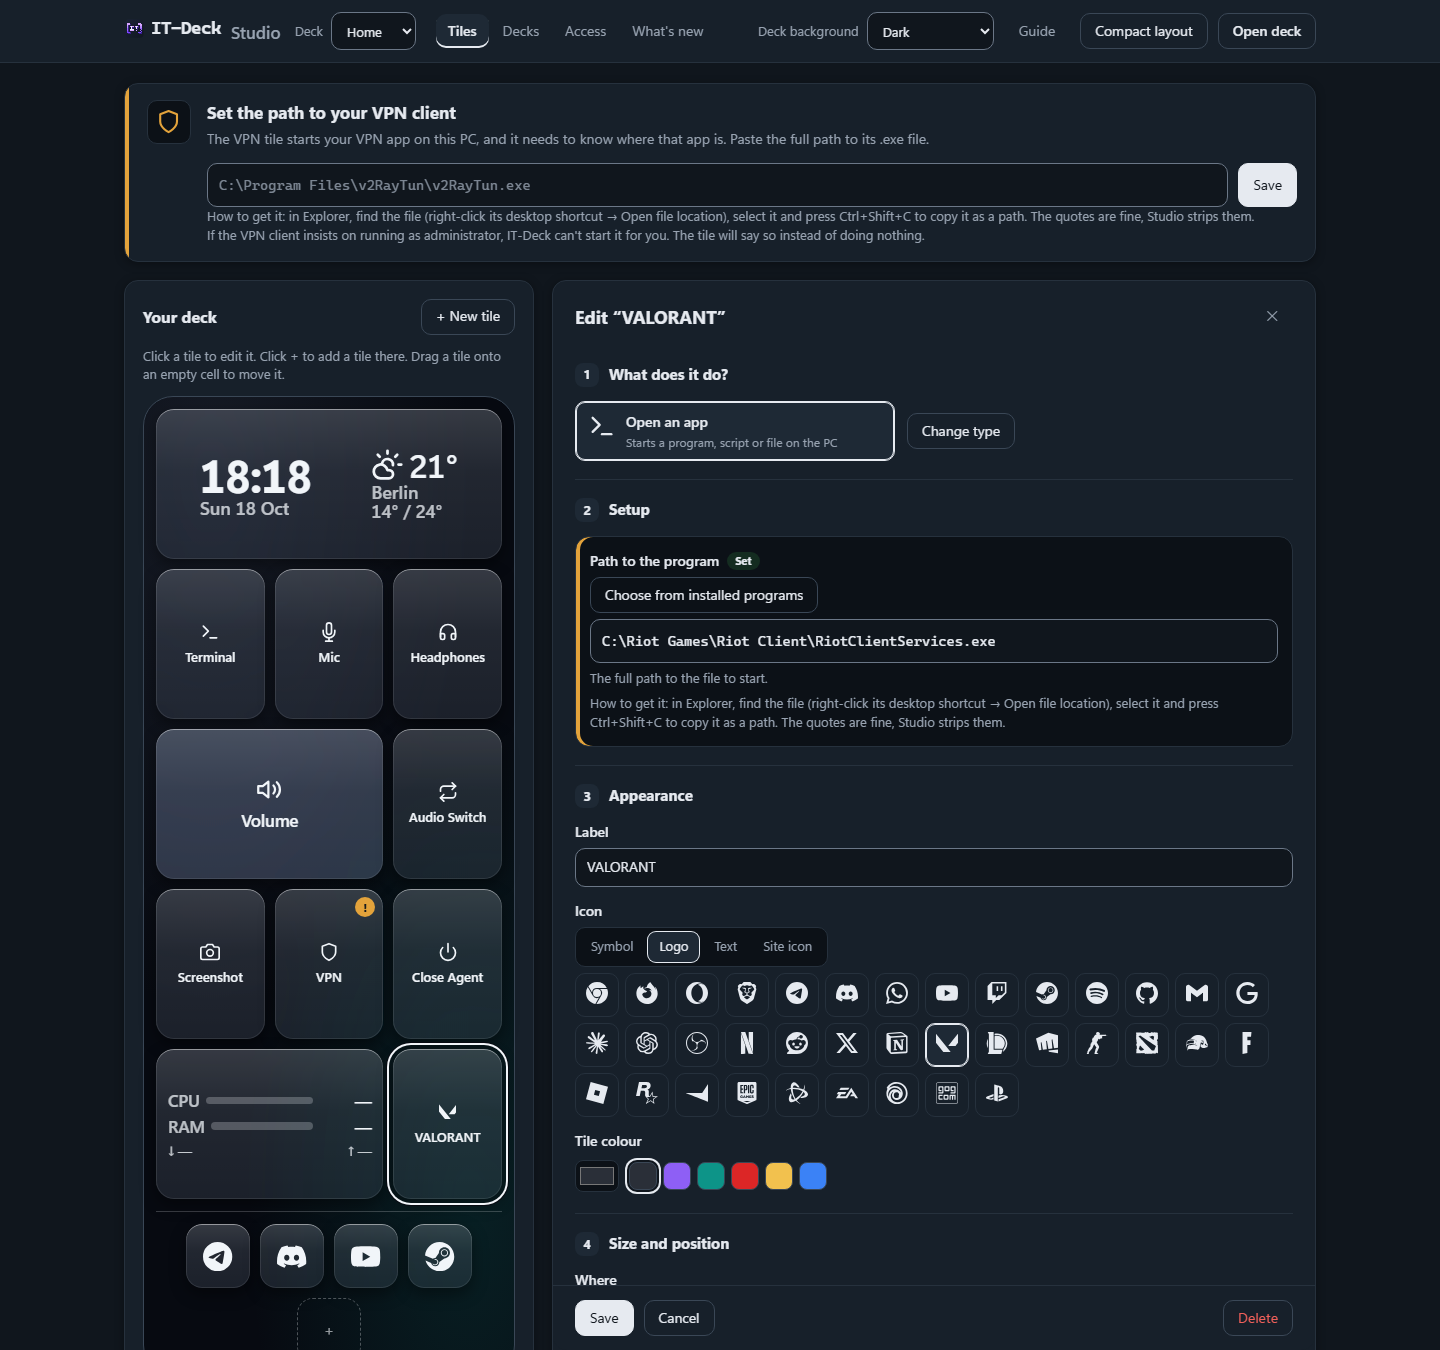
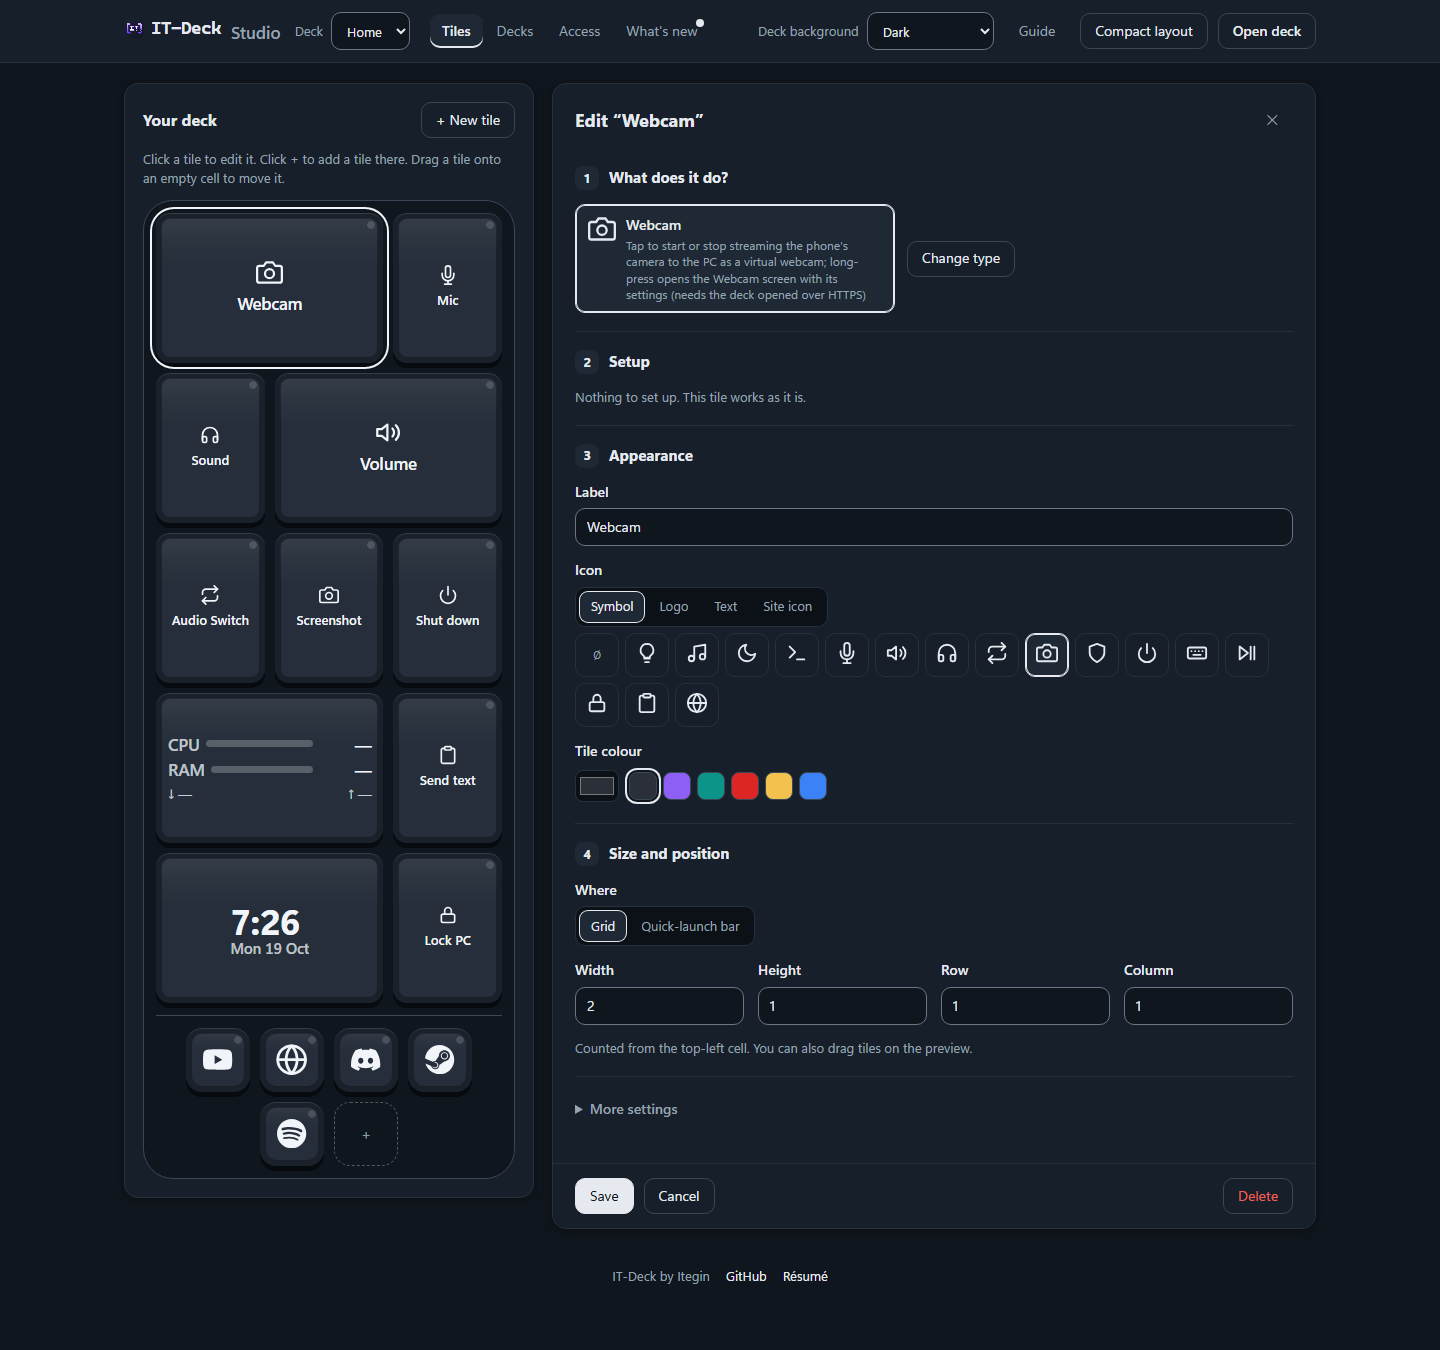
IT-Deck v0.6.1

diff --git a/README.md b/README.md
@@ -11,7 +11,7 @@ doing. The same phone can be your PC's webcam.
 
 **[Русская версия](README.ru.md)**
 
-<img src="docs/screenshots/hero.png" alt="The IT-Deck deck on a phone held upright: a grid of tiles for the microphone, volume, audio device, VPN and PC load, and a bar of quick-launch buttons along the bottom" width="300">
+<img src="docs/screenshots/hero.png" alt="The IT-Deck deck on a phone held sideways: the Webcam tile lit red and marked On air, 720p, with a red dot on the camera button in the header, tiles for Mic, Sound, Volume, Audio Switch, Screenshot, Shut down, PC load, Send text, Clock and Lock PC, and a bar of quick-launch buttons down the left side" width="600">
 
 You need a Windows PC and a phone on the same Wi-Fi. Nothing else is installed
 on either one.
@@ -32,12 +32,12 @@ on either one.
 4. **Point the phone's camera at the code.** Use the normal Camera app. Tap the
    banner that appears. The deck opens in your browser.
 
-   <img src="docs/screenshots/dashboard.png" alt="The deck on a phone: tiles for Mic, Volume, Audio Switch, VPN and Terminal, a clock and weather widget, and the quick-launch bar along the bottom" width="300">
+   <img src="docs/screenshots/dashboard.png" alt="The Home deck on a phone held sideways: a wide Webcam tile and a Mic tile on top, then Sound, a Volume slider, Audio Switch, Screenshot, Shut down, PC load, Send text, a clock and Lock PC, with the quick-launch bar down the left side" width="600">
 
 5. **Add it to the Home Screen.** In Safari tap the Share button, then
    **Add to Home Screen**. The deck now has its own icon, like an app.
 
-   <img src="docs/screenshots/add-home.png" alt="The Share sheet in iPhone Safari with the Add to Home Screen row ringed" width="300">
+   <img src="docs/screenshots/add-home.png" alt="The Share sheet in iPhone Safari with the Add to Home Screen row ringed" width="240">
 
 That is all. Tap a tile and the PC does it. The tile shows what happened: the
 Mic tile turns red while the microphone is muted.
@@ -54,6 +54,8 @@ The phone's camera becomes a webcam on your PC. Windows 11 only. You set it up
 once. After that, apps such as Discord, Zoom and OBS list it as
 **IT-Deck Camera**.
 
+<img src="docs/screenshots/webcam-demo.gif" alt="A 10-second loop: a video app's settings with IT-Deck Camera picked and its preview waiting; on the phone beside it the deck shows An app on the PC wants the camera, Start is tapped, the Webcam tile turns red and says On air, and the app's preview switches to the live picture" width="720">
+
 1. **Install the camera.** In the IT-Deck window find the Webcam card and press
    **Install camera**. Windows asks for administrator rights. Say yes. This
    happens once.
@@ -65,17 +67,13 @@ once. After that, apps such as Discord, Zoom and OBS list it as
 
    Why this step? The phone only shares its camera with a page it trusts, so
    you install IT-Deck's certificate (a small trust file) on the phone once.
-   The page has three steps with pictures. Do them one by one.
+   The page has four steps with pictures. Do them one by one.
 
-   <img src="docs/screenshots/setup-1.png" alt="Setup page, step 1: Download the profile, with a button to download it and a note that Safari will ask to allow it" width="300">
-   <img src="docs/screenshots/setup-2.png" alt="Setup page, step 2: Install the profile, with a drawn iPhone Settings screen showing where to tap" width="300">
-   <img src="docs/screenshots/setup-3.png" alt="Setup page, step 3: Trust it, with a drawn Certificate Trust Settings screen and the IT-Deck local CA switch" width="300">
+   <img src="docs/screenshots/setup-steps.png" alt="The four steps of the setup page on an iPhone, side by side: 1 Download the profile, 2 Install the profile with drawn Settings screens showing where to tap, 3 Trust it with the IT-Deck local CA switch, 4 Add to Home Screen with an Open the deck button" width="720">
 
 3. **Open the deck.** The last step says **Open the deck**. Tap it. On the page
    that opens, tap Share, then **Add to Home Screen**. From now on use this new
    icon. You can delete the old IT-Deck icon.
-
-   <img src="docs/screenshots/setup-4.png" alt="Setup page, step 4: the certificate is trusted, with an Open the deck button and a drawn Safari Share sheet" width="300">
 
 4. **Pick the camera in your app.** In Discord, Zoom or OBS, open the camera
    settings and choose **IT-Deck Camera**. The picture is a dark placeholder
@@ -87,7 +85,7 @@ once. After that, apps such as Discord, Zoom and OBS list it as
    "An app on the PC wants the camera". Tap **Start**. Your picture appears in
    the app.
 
-   <img src="docs/screenshots/deck-start.png" alt="The deck on a phone with a card that says An app on the PC wants the camera, with Not now and Start buttons" width="300">
+   <img src="docs/screenshots/deck-start.png" alt="The deck on a phone held sideways with a card that says An app on the PC wants the camera, with Not now and Start buttons" width="600">
 
 **Notes.**
 - 720p at 30 fps is best over Wi-Fi. 1080p may break up on a weak network.
@@ -111,13 +109,13 @@ tile to edit it, press `+` to add one, drag to move. You choose what a tile
 does from cards, with no commands to type. The **Guide** button in the top bar
 is a short illustrated how-to.
 
-<img src="docs/screenshots/studio.png" alt="Studio in the Graphite look: a live preview of the deck next to the editor for an app tile, VALORANT, with logos of popular apps, games and launchers; the top bar has Decks, Access and What's new" width="600">
+<img src="docs/screenshots/studio.png" alt="Studio in the Graphite look: a live preview of the Home deck in Keycap next to the editor for the Webcam tile, with its icon, colour, size and position; the top bar has Decks, Access and What's new" width="600">
 
 Pick a look from five tile themes: Flat, Pastel, Glossy, Liquid Glass and
 Keycap. Each works on a dark or a light background. Tap the pill in the deck's
 header to switch theme.
 
-<img src="docs/screenshots/themes.png" alt="The same deck in five tile themes side by side: Flat, Pastel, Glossy, Liquid Glass and Keycap" width="600">
+<img src="docs/screenshots/themes.png" alt="The same Home deck in five tile themes side by side: Flat, Pastel, Glossy, Liquid Glass and Keycap" width="600">
 
 ## If something doesn't work
 

diff --git a/CHANGELOG.md b/CHANGELOG.md
@@ -4,6 +4,31 @@ Newest first. Versions are git tags; `main` between tags is unreleased.
 
 ---
 
+## v0.6.1 — 2026-10-19
+
+### Added
+
+- **Six deck templates** in Studio's Decks dialog: Home, Streamer, Work,
+  Gamer, Calls, and Music & video. A new install starts with Home, which has a
+  quick-launch bar.
+
+### Changed
+
+- **The Webcam tile is 2 wide** and turns the on-air red while streaming, with
+  the quality ("On air · 720p") under its name.
+- **Keycap is the default theme.** A theme you picked stays.
+- **README screenshots** show the deck held sideways in Keycap; the webcam
+  setup steps are one picture.
+- **The Home Screen icon is the pixel `[IT]`.** Add the deck to the Home
+  Screen again to see it.
+- **A 10-second webcam demo** at the top of the README's webcam section.
+
+### Fixed
+
+- **Shut down asks first again.** On a deck held sideways the Run / Cancel
+  sheet opened under the finger, and the same tap pressed Run. A sheet now
+  counts only presses that start on it, and Cancel has the keyboard focus.
+
 ## v0.6.0 — 2026-10-17
 
 ### Added
